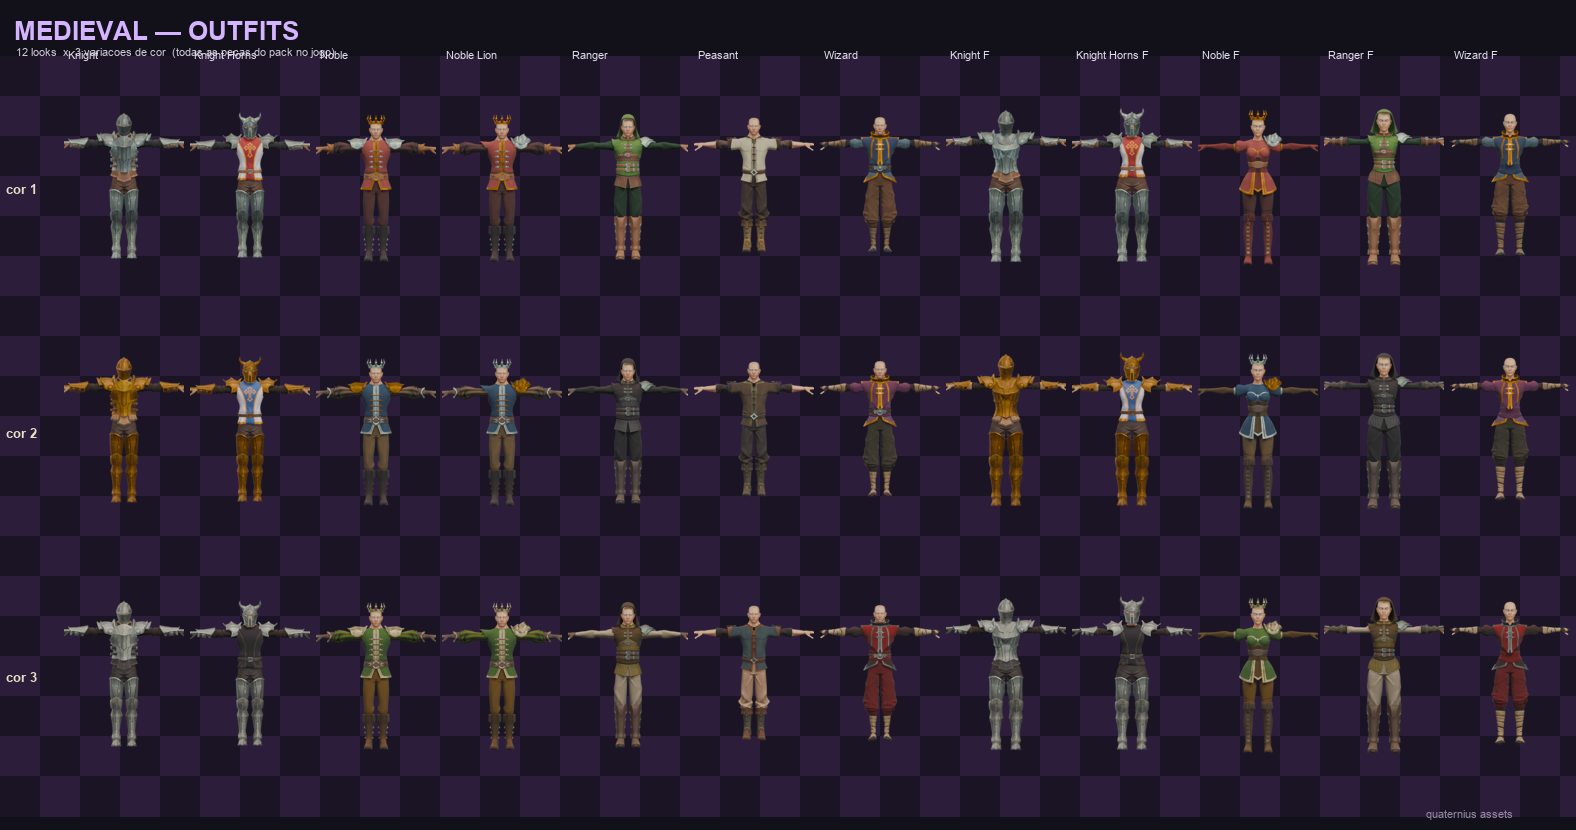
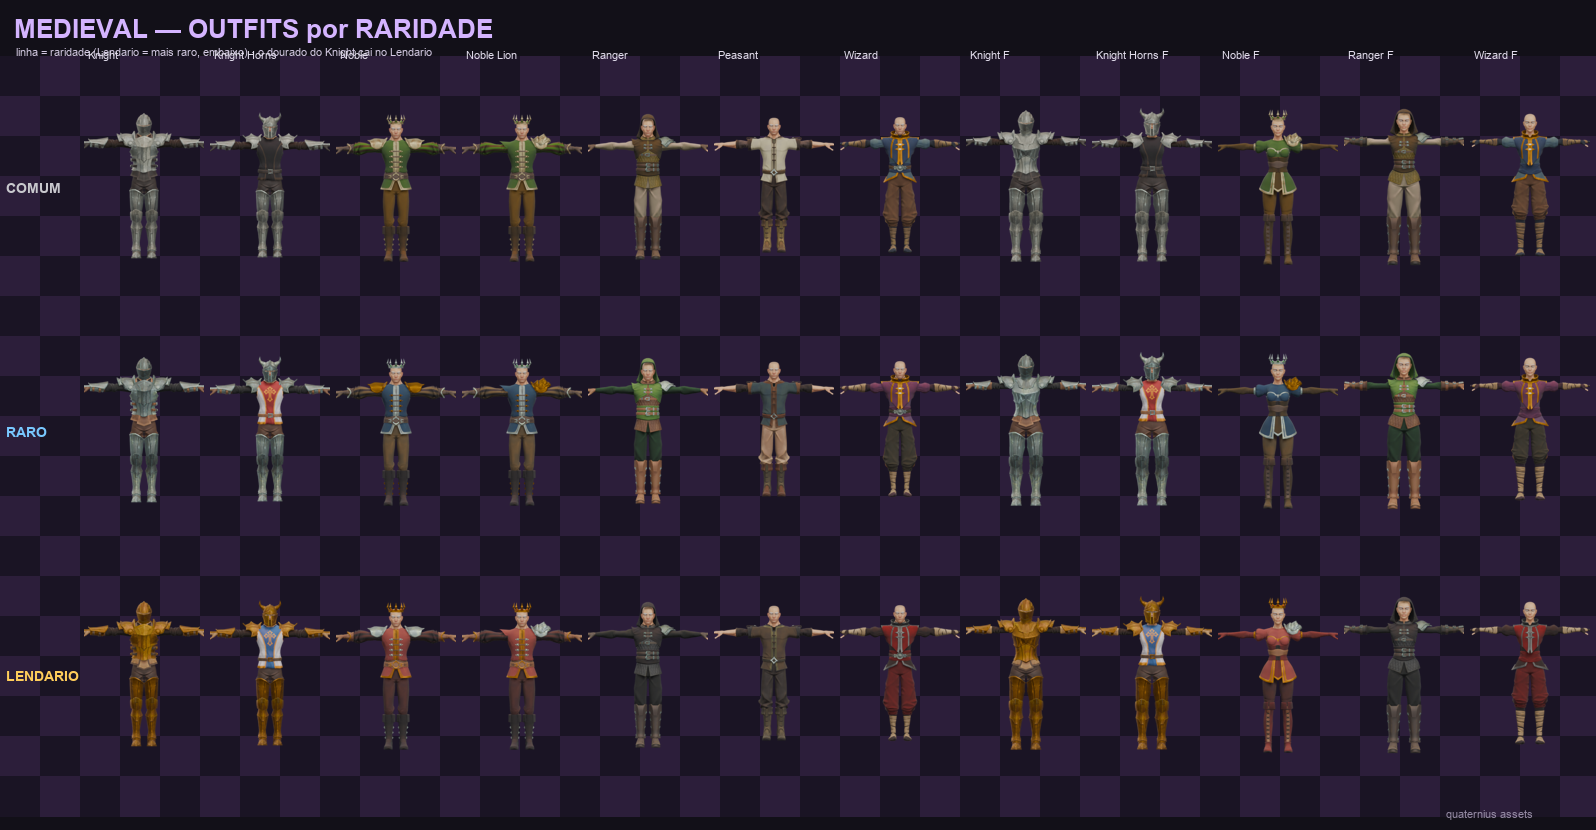
docs(previews): showcase por RARIDADE (não por cor crua) [SKIN_RARIDADE]
O showcase anterior mostrava as 3 cores cruas (cor1/2/3) → o dourado do Knight
(textura nº2) aparecia na linha "cor 2" e PARECIA pouco raro. Corrigido: agora
as linhas são raridade (Comum/Raro/Lendário, mais raro embaixo), cada tema com
a cor da sua banda → o dourado cai no Lendário, como deve ser. O mapeamento do
jogo (Outfits.BAND_VARIANT) já era esse; só o preview confundia.

diff --git a/godot-client/tools/render_showcase.py b/godot-client/tools/render_showcase.py
@@ -24,7 +24,15 @@ LOOKS = [
     ("F_ranger",        "Female", "ranger", ["Female_Ranger_Head_Hood", "Female_Ranger_Body", "Female_Ranger_Acc_Pauldrons", "Female_Ranger_Arms", "Female_Ranger_Legs", "Female_Ranger_Feet"]),
     ("F_wizard",        "Female", "wizard", ["Female_Wizard_Body", "Female_Wizard_Arms", "Female_Wizard_Legs", "Female_Wizard_Feet"]),
 ]
-COLORS = [1, 2, 3]   # as 3 variações de textura por tema (1=base, 2="_2", 3="_3")
+# Showcase ordenado por RARIDADE (não por cor crua) — espelha Outfits.gd: cada tema mostra a cor da
+# sua banda. Assim o "melhor" (ex.: dourado do Knight) cai no Lendário (o mais raro). [SKIN_RARIDADE]
+BAND_FOR_RARITY = [0, 0, 1, 2, 2]
+BAND_VARIANT = {"knight": [3, 1, 2], "noble": [3, 2, 1], "ranger": [3, 1, 2], "peasant": [1, 3, 2], "wizard": [1, 2, 3]}
+RARITIES = [(1, "Comum"), (3, "Raro"), (5, "Lendario")]   # uma raridade por banda
+
+
+def color_for(theme, rarity):
+    return BAND_VARIANT.get(theme, [1, 2, 3])[BAND_FOR_RARITY[rarity - 1]]
 
 
 def theme_dir(base):
@@ -64,7 +72,8 @@ def pick_engine():
 
 
 for look_id, gender, theme, pieces in LOOKS:
-    for cv in COLORS:
+    for rarity, rlabel in RARITIES:
+        cv = color_for(theme, rarity)   # cor da BANDA de raridade deste tema (não a cor crua)
         bpy.ops.wm.read_factory_settings(use_empty=True)
         scene = bpy.context.scene
         scene.render.engine = pick_engine(); scene.render.film_transparent = True
@@ -108,7 +117,7 @@ for look_id, gender, theme, pieces in LOOKS:
             l = bpy.data.lights.new(nm, type='SUN'); l.energy = en
             o = bpy.data.objects.new(nm, l); scene.collection.objects.link(o)
             o.rotation_euler = (math.radians(ang[0]), math.radians(ang[1]), math.radians(ang[2]))
-        out = os.path.join(out_dir, "%s__c%d.png" % (look_id, cv)); scene.render.filepath = out
+        out = os.path.join(out_dir, "%s__r%d.png" % (look_id, rarity)); scene.render.filepath = out
         bpy.ops.render.render(write_still=True)
-        print("SHOW", look_id, "c%d" % cv, "->", os.path.exists(out))
+        print("SHOW", look_id, rlabel, "(cor%d)" % cv, "->", os.path.exists(out))
 print("DONE")
